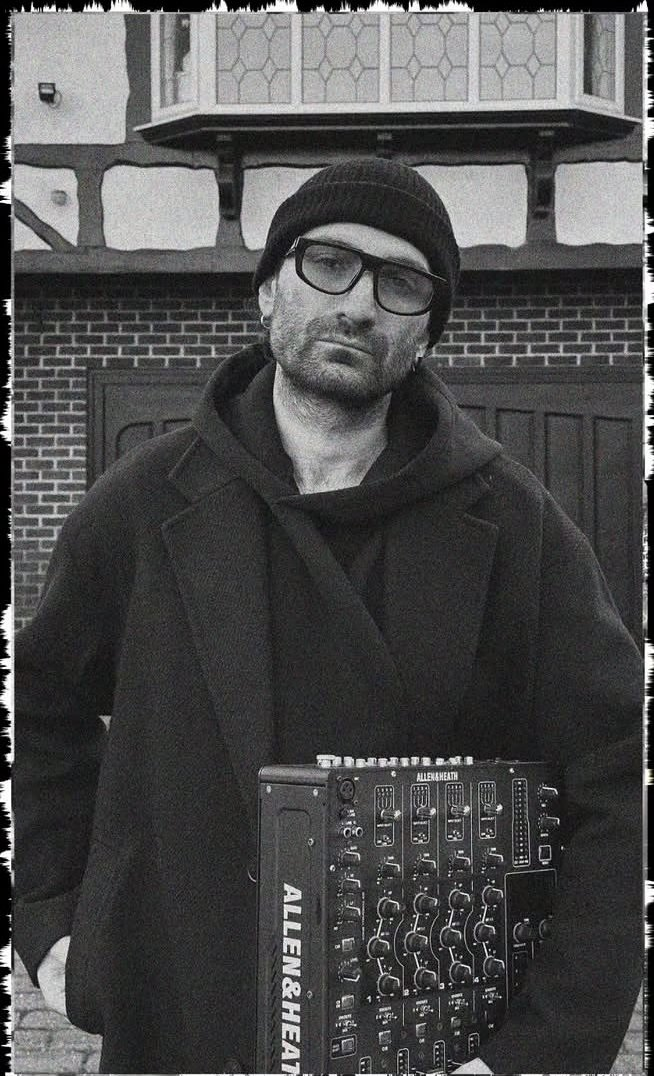
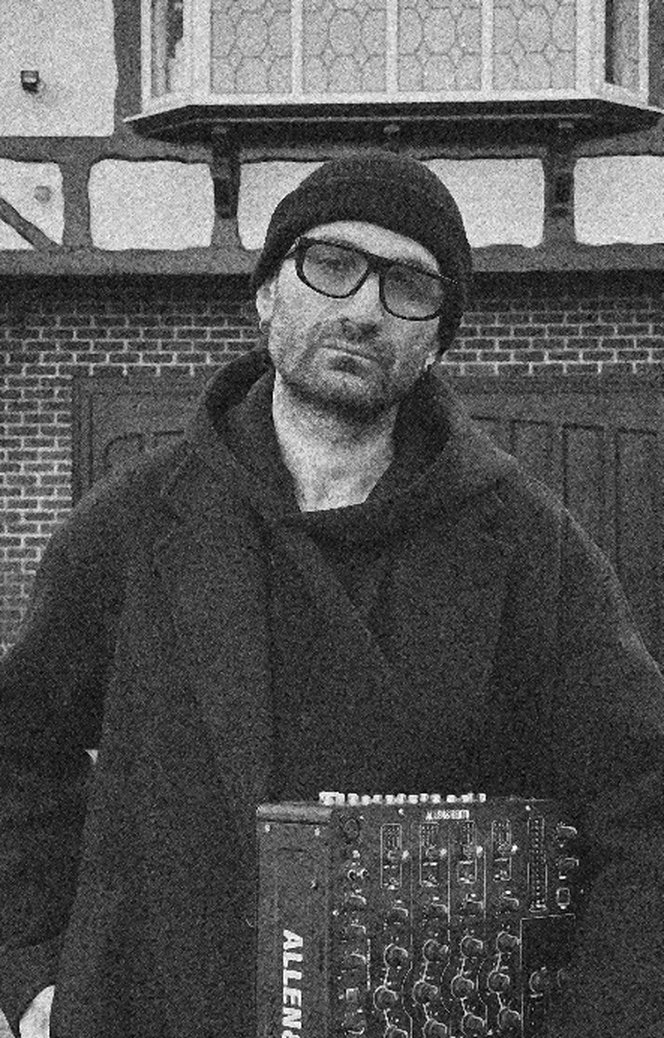
Roster: Kenzo (was Enzo, old link redirects), add Perry, Badador, Ronin in series order; first poster crops (work in progress)
Claude-Session: https://claude.ai/code/session_019YWGRTkcsoBK4T1AHcspxG

diff --git a/assets/js/data.js b/assets/js/data.js
@@ -76,8 +76,9 @@ window.OSCILLATOR = {
       videos: []
     },
 
-    // Roster from the label's Instagram — photos cropped from the label's artist posters
-    { slug: 'enzo', name: 'Enzo', role: '', city: '', photo: 'assets/img/artist-enzo.jpg', bio: [], links: { instagram: 'https://www.instagram.com/shayan.kenzo/', soundcloud: '' }, transmissions: ['osc-031'], videos: [] },
+    // Roster in series order (newest first) — photos cropped from the label's artist posters
+    { slug: 'perry', name: 'Perry', role: '', city: '', photo: 'assets/img/artist-perry.jpg', bio: [], links: { instagram: '', soundcloud: '' }, transmissions: [], videos: [] },
+    { slug: 'kenzo', name: 'Kenzo', role: '', city: '', photo: 'assets/img/artist-kenzo.jpg', bio: [], links: { instagram: 'https://www.instagram.com/shayan.kenzo/', soundcloud: '' }, transmissions: ['osc-031'], videos: [] },
     { slug: 'mahyar-arabiyan', name: 'Mahyar Arabiyan', role: '', city: '', photo: 'assets/img/artist-mahyar-arabiyan.jpg', bio: [], links: { instagram: 'https://www.instagram.com/mah7arr/', soundcloud: '' }, transmissions: ['osc-030'], videos: [] },
     { slug: 'pooyan', name: 'Pooyan', role: '', city: '', photo: 'assets/img/artist-pooyan.jpg', bio: [], links: { instagram: 'https://www.instagram.com/pooyansaadati/', soundcloud: '' }, transmissions: ['osc-029'], videos: [] },
     { slug: 'barbad', name: 'Barbad', role: '', city: '', photo: 'assets/img/artist-barbad.jpg', bio: [], links: { instagram: '', soundcloud: '' }, transmissions: ['osc-028'], videos: [] },
@@ -85,7 +86,9 @@ window.OSCILLATOR = {
     { slug: 'kiarash', name: 'Kiarash', role: '', city: '', photo: 'assets/img/artist-kiarash.jpg', bio: [], links: { instagram: '', soundcloud: '' }, transmissions: ['osc-026'], videos: [] },
     { slug: 'traumatic', name: 'Traumatic', role: '', city: '', photo: 'assets/img/artist-traumatic.jpg', bio: [], links: { instagram: 'https://www.instagram.com/trmc.live/', soundcloud: '' }, transmissions: ['osc-025'], videos: [] },
     { slug: 'xaxwave', name: 'Xaxwave', role: '', city: '', photo: 'assets/img/artist-xaxwave.jpg', bio: [], links: { instagram: '', soundcloud: '' }, transmissions: ['osc-024'], videos: [] },
-    { slug: 'dynno', name: 'Dynno', role: 'Resident artist', city: 'Tehran', photo: 'assets/img/dynno.jpg', bio: [], links: { instagram: 'https://www.instagram.com/dynno.music/', soundcloud: '' }, transmissions: ['osc-021'], videos: [] }
+    { slug: 'badador', name: 'Badador', role: '', city: '', photo: 'assets/img/artist-badador.jpg', bio: [], links: { instagram: '', soundcloud: '' }, transmissions: ['osc-023'], videos: [] },
+    { slug: 'ronin', name: 'Ronin', role: '', city: '', photo: 'assets/img/artist-ronin.jpg', bio: [], links: { instagram: '', soundcloud: '' }, transmissions: ['osc-022'], videos: [] },
+    { slug: 'dynno', name: 'Dynno', role: 'Resident artist', city: 'Tehran', photo: 'assets/img/artist-dynno.jpg', bio: [], links: { instagram: 'https://www.instagram.com/dynno.music/', soundcloud: '' }, transmissions: ['osc-021'], videos: [] }
   ],
 
   /* ------------------------------------------------------------------------
@@ -151,7 +154,7 @@ window.OSCILLATOR = {
      otherwise the guest's name.
      ------------------------------------------------------------------------ */
   series: [
-    { id: 'osc-031', title: 'Oscillator #031', artist: 'enzo', type: 'Series', date: '2026-08-11', duration: 3147, cover: 'assets/img/series/031.jpg', soundcloud: 'https://soundcloud.com/oscillatorr/031-kenzo', waveform: [0.89,0.89,0.94,0.91,0.49,0.88,0.88,0.97,0.86,0.83,0.84,0.84,0.91,0.9,0.87,0.69,0.85,0.89,0.87,0.9,0.89,0.86,0.88,0.86,0.87,0.89,0.86,0.94,0.88,0.84,0.86,0.84,0.88,0.79,0.84,0.89,0.9,0.9,0.89,0.78,1.0,0.9,0.91,0.91,0.83,0.91,0.91,0.93,0.93,0.91,0.76,0.91,0.93,0.93,0.9,0.9,0.63,0.9,0.94,0.91,0.91,0.84,0.92,0.91,0.92,0.94,0.94,0.93,0.93,0.92,0.94,0.81,0.94,0.94,0.94,0.93,0.66,0.94,0.92,0.78,0.73,0.86,0.91,0.9,0.92,0.94,0.92,0.91,0.89,0.91,0.91,0.92,0.91,0.92,0.9,0.91,0.91,0.91,0.89,0.89,0.91,0.89,0.89,0.89,0.89,0.89,0.9,0.87,0.74,0.89,0.89,0.89,0.89,0.9,0.89,0.89,0.94,0.89,0.88,0.89] },
+    { id: 'osc-031', title: 'Oscillator #031', artist: 'kenzo', type: 'Series', date: '2026-08-11', duration: 3147, cover: 'assets/img/series/031.jpg', soundcloud: 'https://soundcloud.com/oscillatorr/031-kenzo', waveform: [0.89,0.89,0.94,0.91,0.49,0.88,0.88,0.97,0.86,0.83,0.84,0.84,0.91,0.9,0.87,0.69,0.85,0.89,0.87,0.9,0.89,0.86,0.88,0.86,0.87,0.89,0.86,0.94,0.88,0.84,0.86,0.84,0.88,0.79,0.84,0.89,0.9,0.9,0.89,0.78,1.0,0.9,0.91,0.91,0.83,0.91,0.91,0.93,0.93,0.91,0.76,0.91,0.93,0.93,0.9,0.9,0.63,0.9,0.94,0.91,0.91,0.84,0.92,0.91,0.92,0.94,0.94,0.93,0.93,0.92,0.94,0.81,0.94,0.94,0.94,0.93,0.66,0.94,0.92,0.78,0.73,0.86,0.91,0.9,0.92,0.94,0.92,0.91,0.89,0.91,0.91,0.92,0.91,0.92,0.9,0.91,0.91,0.91,0.89,0.89,0.91,0.89,0.89,0.89,0.89,0.89,0.9,0.87,0.74,0.89,0.89,0.89,0.89,0.9,0.89,0.89,0.94,0.89,0.88,0.89] },
     { id: 'osc-030', title: 'Oscillator #030', artist: 'mahyar-arabiyan', type: 'Series', date: '2026-07-13', duration: 3535, cover: 'assets/img/series/030.jpg', soundcloud: 'https://soundcloud.com/oscillatorr/030-mahyar-arabiyan', waveform: [0.69,0.86,0.91,0.91,0.89,0.89,0.86,0.87,0.86,0.88,0.92,0.94,0.94,0.93,0.93,0.93,0.96,0.98,0.97,0.96,0.89,0.89,0.87,0.89,0.87,0.88,0.91,0.91,0.89,0.91,0.96,0.91,0.92,0.92,0.92,0.93,0.91,0.93,0.91,0.9,0.9,0.89,0.89,0.89,0.87,0.94,0.93,0.89,0.87,0.89,0.87,0.85,0.96,0.96,0.95,0.95,0.92,0.95,0.95,0.94,0.94,0.92,0.93,0.9,0.89,0.9,0.91,0.94,0.93,0.96,0.92,0.96,0.91,0.91,0.89,0.9,0.89,0.91,0.93,0.93,0.94,0.92,0.93,0.93,0.99,0.96,0.94,0.94,0.93,0.92,0.87,0.9,0.89,1.0,0.94,0.96,0.94,0.96,0.92,0.92,0.91,0.91,0.94,0.94,0.94,0.96,0.97,0.97,0.96,0.96,0.95,0.9,0.89,0.89,0.88,0.87,0.88,0.89,0.88,0.76] },
     { id: 'osc-029', title: 'Oscillator #029', artist: 'pooyan', type: 'Series', date: '2026-07-08', duration: 3824, cover: 'assets/img/series/029.jpg', soundcloud: 'https://soundcloud.com/oscillatorr/pooyan', waveform: [0.69,0.85,0.96,0.99,0.99,1.0,0.99,0.99,0.98,0.98,0.98,0.99,0.99,0.98,0.99,0.99,0.91,0.91,0.91,0.9,0.89,0.91,0.91,0.91,0.92,0.92,0.91,0.91,0.91,0.92,0.92,0.91,0.93,0.91,0.9,0.9,0.9,0.91,0.91,0.91,0.91,0.9,0.97,0.96,0.98,0.97,0.97,0.92,0.91,0.91,0.92,0.92,0.93,0.93,0.94,0.93,0.94,0.93,0.92,0.94,0.93,0.93,0.93,0.92,0.91,0.92,0.93,0.93,0.92,0.92,0.91,0.92,0.93,0.91,0.92,0.9,0.91,0.9,0.9,0.86,0.86,0.86,0.86,0.87,0.86,0.86,0.84,0.84,0.86,0.84,0.85,0.84,0.84,0.82,0.82,0.81,0.81,0.82,0.82,0.94,0.95,0.94,0.95,0.94,0.94,0.94,0.95,0.93,0.95,0.94,0.93,0.93,0.9,0.89,0.88,0.89,0.89,0.91,0.91,0.89] },
     { id: 'osc-028', title: 'Oscillator #028', artist: 'barbad', type: 'Series', date: '2025-12-28', duration: 3538, cover: 'assets/img/series/028.jpg', soundcloud: 'https://soundcloud.com/oscillatorr/028-barbad', waveform: [0.89,0.91,0.91,0.9,0.91,0.91,0.89,0.87,0.89,0.87,0.88,0.91,0.91,0.92,0.91,0.9,0.95,0.94,0.91,0.86,0.86,0.87,0.86,0.86,0.93,0.94,0.94,0.96,0.96,0.96,0.94,0.94,0.9,0.9,0.89,0.89,0.89,0.87,0.89,0.86,0.85,0.86,0.94,0.94,0.93,0.93,0.92,0.92,0.93,0.91,0.91,0.96,0.96,0.92,0.88,0.88,0.89,0.92,0.94,0.94,0.92,0.94,0.93,0.91,0.91,0.9,0.94,0.94,0.94,0.92,0.86,0.86,0.88,0.87,0.88,0.86,0.86,0.82,0.84,0.86,0.91,0.91,0.93,0.91,0.87,0.87,0.84,0.84,0.84,0.96,0.96,0.94,0.96,0.95,0.9,0.93,0.9,0.92,0.93,0.9,0.93,0.91,0.93,0.9,0.86,0.88,0.87,0.88,0.89,0.91,0.96,0.98,0.96,0.98,0.97,0.99,1.0,0.99,0.85,0.86] },
@@ -159,8 +162,8 @@ window.OSCILLATOR = {
     { id: 'osc-026', title: 'Oscillator #026', artist: 'kiarash', type: 'Series', date: '2025-11-19', duration: 3633, cover: 'assets/img/series/026.jpg', soundcloud: 'https://soundcloud.com/oscillatorr/026-kiarash', waveform: [0.91,0.95,0.95,0.91,0.91,0.91,0.95,0.94,0.95,0.96,0.95,0.94,0.97,0.94,0.94,0.92,0.91,0.9,0.91,0.91,0.89,0.89,0.89,0.91,0.91,0.93,0.89,0.92,0.89,0.91,0.94,0.95,0.96,0.95,0.94,0.94,0.94,0.92,0.91,0.91,0.91,0.91,0.91,0.88,0.87,0.86,0.86,0.94,0.94,0.94,0.93,0.94,1.0,0.96,0.96,0.96,0.94,0.95,0.97,0.99,0.96,0.96,0.96,0.96,0.96,0.96,0.96,0.96,0.96,0.96,0.96,0.94,0.95,0.97,0.98,0.94,0.94,0.95,0.93,0.94,0.95,0.94,0.91,0.91,0.9,0.91,0.91,0.89,0.92,0.93,0.91,0.93,0.9,0.88,0.88,0.87,0.87,0.88,0.88,0.97,0.95,0.94,0.93,0.93,0.94,0.92,0.92,0.91,0.91,0.92,0.92,0.92,0.92,0.92,0.86,0.86,0.89,0.89,0.82,0.87] },
     { id: 'osc-025', title: 'Oscillator #025', artist: 'traumatic', type: 'Series', date: '2025-10-07', duration: 3006, cover: 'assets/img/series/025.jpg', soundcloud: 'https://soundcloud.com/oscillatorr/025-traumatic', waveform: [0.5,0.51,0.84,0.86,0.88,0.86,0.89,0.87,0.89,0.87,0.84,0.79,0.78,0.78,0.77,0.84,0.84,0.83,0.84,0.83,0.81,0.81,0.81,0.82,0.8,0.81,0.81,0.82,0.87,0.87,0.86,0.86,0.84,0.84,0.84,0.84,0.84,0.84,0.84,0.86,0.84,0.86,0.84,0.86,0.87,0.87,0.86,0.86,0.86,0.87,0.84,0.84,0.83,0.82,0.84,0.85,0.86,0.84,0.82,0.82,0.79,0.76,0.79,0.8,0.79,0.79,0.82,0.81,0.79,0.79,0.8,0.79,0.86,0.87,0.89,0.89,0.87,0.9,0.87,0.89,0.89,0.96,0.99,1.0,0.99,0.99,0.94,0.94,0.94,0.86,0.88,0.89,0.82,0.88,0.89,0.87,0.87,0.89,0.87,0.89,0.86,0.95,0.92,0.98,0.97,0.86,0.98,0.96,0.94,0.94,0.96,0.59,0.47,0.56,0.5,0.53,0.54,0.5,0.55,0.5] },
     { id: 'osc-024', title: 'Oscillator #024', artist: 'xaxwave', type: 'Series', date: '2025-09-21', duration: 3677, cover: 'assets/img/series/024.jpg', soundcloud: 'https://soundcloud.com/oscillatorr/024-xaxwave', waveform: [0.92,0.99,0.99,1.0,0.94,0.94,0.93,0.8,0.96,0.95,0.87,0.86,0.9,0.95,0.96,0.97,0.95,0.94,0.97,0.96,0.86,0.93,0.94,0.92,0.9,0.84,0.93,0.92,0.96,0.97,0.96,0.96,0.96,0.97,0.97,0.94,0.94,0.94,0.94,0.95,0.99,0.94,0.93,0.94,0.91,0.91,0.92,0.96,0.95,0.94,0.94,0.96,0.98,0.98,0.98,0.89,0.97,0.98,0.98,0.96,0.96,0.95,0.95,0.91,0.9,0.96,0.94,0.96,0.96,0.95,0.95,0.95,0.94,0.95,0.96,0.96,0.96,0.96,0.96,0.92,0.93,0.93,0.88,0.92,0.93,0.94,0.94,0.95,0.94,0.93,0.95,0.96,0.95,0.96,0.71,0.96,0.86,0.98,0.97,0.99,0.98,0.99,0.97,0.99,0.97,0.96,0.89,0.96,0.96,0.96,0.96,0.81,0.86,0.87,0.85,0.71,0.86,0.86,0.86,0.84] },
-    { id: 'osc-023', title: 'Oscillator #023', artist: 'Badador', type: 'Series', date: '2025-09-15', duration: 3552, cover: 'assets/img/series/023.jpg', soundcloud: 'https://soundcloud.com/oscillatorr/badador', waveform: [0.69,0.69,0.67,0.57,0.98,0.96,0.96,0.97,0.97,0.93,0.95,0.96,0.94,0.94,0.92,0.91,0.94,0.95,0.94,0.94,0.94,0.94,0.94,0.9,0.92,0.93,0.91,0.94,0.92,0.91,0.91,0.91,0.95,0.94,0.94,0.94,0.95,0.95,0.94,0.95,0.95,0.84,0.95,0.91,0.87,0.91,0.89,0.9,0.89,0.89,0.88,0.89,0.89,0.84,0.87,0.86,0.86,0.86,0.86,0.86,0.92,0.94,0.97,0.96,0.97,1.0,0.98,0.99,0.98,0.98,0.99,0.92,0.94,0.96,0.98,0.94,0.96,0.95,0.96,0.95,0.96,0.95,0.96,0.97,0.96,0.97,0.98,0.99,0.99,0.98,0.94,0.91,0.91,0.94,0.93,0.94,0.95,0.92,0.91,0.91,0.94,0.93,0.93,0.93,0.91,0.89,0.87,0.91,0.89,0.9,0.91,0.96,0.95,0.97,0.94,0.91,0.92,0.94,0.91,0.91] },
-    { id: 'osc-022', title: 'Oscillator #022', artist: 'Ronin', type: 'Series', date: '2025-09-06', duration: 3791, cover: 'assets/img/series/022.jpg', soundcloud: 'https://soundcloud.com/oscillatorr/ronin', waveform: [0.98,0.99,0.99,0.98,0.99,0.94,0.96,0.98,0.99,0.98,0.94,0.93,0.93,0.92,0.94,0.96,0.96,0.94,0.96,0.95,0.96,0.92,0.94,0.94,0.95,0.95,0.95,0.93,0.98,0.98,0.99,0.99,1.0,0.98,0.93,0.99,0.96,0.98,0.97,0.98,0.97,0.91,0.87,0.91,0.94,0.94,0.94,0.94,0.94,0.94,0.94,0.94,0.94,0.94,0.94,0.97,0.98,0.96,0.94,0.91,0.89,0.89,0.89,0.9,0.71,0.77,0.9,0.89,0.86,0.91,0.95,0.94,0.94,0.94,0.91,0.97,0.98,0.97,0.97,0.98,0.96,0.95,0.97,0.97,0.96,0.95,0.95,0.95,0.94,0.94,0.94,0.92,0.88,0.95,0.94,0.94,0.94,0.95,0.94,0.96,0.88,0.96,0.97,0.98,0.97,0.97,0.97,0.98,0.93,0.96,0.97,0.98,0.97,0.98,0.97,0.96,0.95,0.96,0.94,0.95] },
+    { id: 'osc-023', title: 'Oscillator #023', artist: 'badador', type: 'Series', date: '2025-09-15', duration: 3552, cover: 'assets/img/series/023.jpg', soundcloud: 'https://soundcloud.com/oscillatorr/badador', waveform: [0.69,0.69,0.67,0.57,0.98,0.96,0.96,0.97,0.97,0.93,0.95,0.96,0.94,0.94,0.92,0.91,0.94,0.95,0.94,0.94,0.94,0.94,0.94,0.9,0.92,0.93,0.91,0.94,0.92,0.91,0.91,0.91,0.95,0.94,0.94,0.94,0.95,0.95,0.94,0.95,0.95,0.84,0.95,0.91,0.87,0.91,0.89,0.9,0.89,0.89,0.88,0.89,0.89,0.84,0.87,0.86,0.86,0.86,0.86,0.86,0.92,0.94,0.97,0.96,0.97,1.0,0.98,0.99,0.98,0.98,0.99,0.92,0.94,0.96,0.98,0.94,0.96,0.95,0.96,0.95,0.96,0.95,0.96,0.97,0.96,0.97,0.98,0.99,0.99,0.98,0.94,0.91,0.91,0.94,0.93,0.94,0.95,0.92,0.91,0.91,0.94,0.93,0.93,0.93,0.91,0.89,0.87,0.91,0.89,0.9,0.91,0.96,0.95,0.97,0.94,0.91,0.92,0.94,0.91,0.91] },
+    { id: 'osc-022', title: 'Oscillator #022', artist: 'ronin', type: 'Series', date: '2025-09-06', duration: 3791, cover: 'assets/img/series/022.jpg', soundcloud: 'https://soundcloud.com/oscillatorr/ronin', waveform: [0.98,0.99,0.99,0.98,0.99,0.94,0.96,0.98,0.99,0.98,0.94,0.93,0.93,0.92,0.94,0.96,0.96,0.94,0.96,0.95,0.96,0.92,0.94,0.94,0.95,0.95,0.95,0.93,0.98,0.98,0.99,0.99,1.0,0.98,0.93,0.99,0.96,0.98,0.97,0.98,0.97,0.91,0.87,0.91,0.94,0.94,0.94,0.94,0.94,0.94,0.94,0.94,0.94,0.94,0.94,0.97,0.98,0.96,0.94,0.91,0.89,0.89,0.89,0.9,0.71,0.77,0.9,0.89,0.86,0.91,0.95,0.94,0.94,0.94,0.91,0.97,0.98,0.97,0.97,0.98,0.96,0.95,0.97,0.97,0.96,0.95,0.95,0.95,0.94,0.94,0.94,0.92,0.88,0.95,0.94,0.94,0.94,0.95,0.94,0.96,0.88,0.96,0.97,0.98,0.97,0.97,0.97,0.98,0.93,0.96,0.97,0.98,0.97,0.98,0.97,0.96,0.95,0.96,0.94,0.95] },
     { id: 'osc-021', title: 'Oscillator #021', artist: 'dynno', type: 'Series', date: '2025-09-03', duration: 4414, cover: 'assets/img/series/021.jpg', soundcloud: 'https://soundcloud.com/oscillatorr/021-dynno', waveform: [0.66,0.94,0.92,0.93,0.94,0.87,0.86,0.86,0.86,0.84,0.84,0.84,0.89,0.96,0.94,0.95,0.95,0.96,0.89,0.85,0.87,0.95,0.95,0.94,0.91,0.92,0.93,0.9,0.91,0.91,0.93,0.92,0.89,0.93,0.9,0.91,0.9,0.92,0.9,0.91,0.91,0.94,0.94,0.96,0.96,0.91,0.86,0.61,0.94,0.9,0.94,0.95,0.98,0.98,0.95,0.86,0.89,0.9,0.91,0.86,0.91,0.93,0.96,0.93,0.93,0.91,0.96,0.98,0.96,0.98,0.97,0.97,0.96,0.97,0.91,0.93,0.91,0.95,0.92,0.71,0.79,0.96,0.94,0.97,0.95,0.97,0.99,0.96,1.0,0.99,0.94,0.92,0.91,0.92,0.86,0.93,0.95,0.94,0.91,0.91,0.91,0.98,0.96,0.97,0.96,0.88,0.86,0.66,0.9,0.92,0.85,0.86,0.69,0.8,0.86,0.86,0.86,0.86,0.86,0.87] },
     { id: 'osc-020', title: 'Oscillator #020', artist: 'Shabi Seyf', type: 'Series', date: '2022-01-23', duration: 3245, cover: 'assets/img/series/020.jpg', soundcloud: 'https://soundcloud.com/oscillatorr/020-shabi-seyf', waveform: [0.49,0.85,0.63,0.64,0.89,0.89,0.9,0.89,0.89,0.88,0.89,0.9,0.88,0.87,0.85,0.86,0.88,0.87,0.89,0.89,0.86,0.86,0.56,0.89,0.92,0.94,0.93,0.81,0.82,0.82,0.84,0.84,0.86,0.83,0.83,0.83,0.84,0.84,0.92,0.93,0.92,0.93,0.59,0.93,0.93,0.93,0.92,0.93,0.91,0.7,0.79,0.89,0.9,0.7,0.89,0.88,0.89,0.89,0.85,0.72,0.91,0.9,0.92,0.93,0.91,0.9,0.99,0.99,0.99,0.94,0.94,0.99,0.99,0.99,0.99,0.97,0.97,0.97,0.94,0.94,0.9,0.93,0.94,0.94,0.94,0.84,0.94,0.94,0.91,0.91,0.87,0.69,0.91,0.9,0.9,0.9,0.91,1.0,0.98,0.92,0.94,0.94,0.62,0.95,0.94,0.94,0.96,0.92,0.95,0.92,0.91,0.93,0.93,0.91,0.92,0.93,0.93,0.91,0.86,0.71] },
     { id: 'osc-019', title: 'Oscillator #019', artist: 'La Hera', type: 'Series', date: '2022-01-05', duration: 3667, cover: 'assets/img/series/019.jpg', soundcloud: 'https://soundcloud.com/oscillatorr/019-la-hera', waveform: [0.94,0.96,0.98,0.98,0.99,0.96,0.96,0.99,0.99,0.99,0.99,0.99,0.96,0.98,0.97,0.95,0.97,0.98,0.99,0.99,0.98,0.96,0.99,0.99,0.96,0.97,0.97,0.97,0.99,0.99,0.97,0.97,0.98,0.96,0.75,0.76,0.97,0.98,0.98,0.98,0.99,0.99,0.99,0.81,0.99,0.99,0.98,0.99,0.53,0.99,0.99,0.99,0.99,0.99,0.99,0.99,0.98,0.69,0.99,0.99,0.99,0.99,0.97,0.99,0.99,0.98,0.97,0.98,0.97,0.94,0.97,0.99,0.97,0.99,0.99,1.0,0.99,0.96,0.88,0.99,0.99,0.98,0.99,0.98,0.96,0.94,0.96,0.95,0.66,0.71,0.94,0.96,0.96,0.96,0.99,0.99,0.99,0.99,0.99,0.99,0.74,0.97,0.99,0.99,0.99,0.99,0.98,0.99,0.99,0.99,0.98,0.99,0.98,0.97,0.94,0.97,0.98,0.99,0.99,0.99] },

diff --git a/assets/js/main.js b/assets/js/main.js
@@ -990,6 +990,8 @@
 
   function route(pushed) {
     var m = location.hash.match(/^#\/artist\/([\w-]+)$/);
+    var moved = { enzo: 'kenzo' };                       // renamed artists keep their old links
+    if (m && moved[m[1]]) { location.replace('#/artist/' + moved[m[1]]); return; }
     if (m) openProfile(m[1], pushed);
     else if (pf.open) closeProfile();
   }

diff --git a/README.md b/README.md
@@ -36,7 +36,7 @@ to touch the HTML, CSS or other scripts to update the site.
 
 - **Artists** — add an object to `artists`. Put photos in `assets/img/` (black & white
   works best). An artist without a photo automatically gets a generated contour "sigil".
-  Roster photos are cropped from the label's Instagram posters (low resolution) — swap in originals when available.
+  Roster photos are cropped from the label's artist posters (the series artwork), graded black & white.
 - **Transmissions** — mixes/releases. `soundcloud` is the public track URL; `duration`
   is in seconds; `waveform` is optional.
 - **Events** — leave `events: []` for the "no signal" state, or add dates. Past dates with a `poster` appear in the "Past signals" archive.
@@ -78,6 +78,6 @@ Pages, a plain server). For GitHub Pages: *Settings → Pages → Deploy from a 
 `assets/js/data.js`
 
 - برای اضافه کردن آرتیست، یک آیتم به لیست `artists` اضافه کنید و عکسش را در پوشهی `assets/img/` بگذارید.
-- عکس آرتیستها از پوسترهای اینستاگرام لیبل برش خورده و کیفیت پایینی دارد؛ هر وقت عکس اصلی رسید جایگزین کنید.
+- عکس آرتیستها از پوسترهای اصلی سری لیبل برش خورده و سیاهوسفید شده است.
 - اگر آرتیستی عکس نداشته باشد، سایت بهطور خودکار یک طرح گرافیکی مخصوص او میسازد.
 - برای اجرا روی کامپیوتر: `npx serve .`
